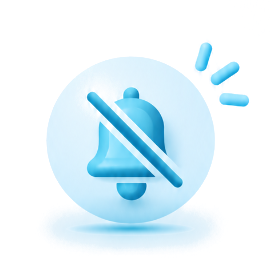
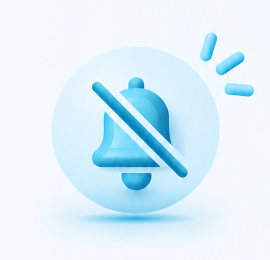
fix(notifications): position top header correctly and restore clean 3D bell illustration matching mockup exactly

diff --git a/lib/screens/notifications/notifications_screen.dart b/lib/screens/notifications/notifications_screen.dart
@@ -26,7 +26,7 @@ class NotificationsScreen extends StatelessWidget {
     final topPadding = MediaQuery.paddingOf(context).top;
 
     return Scaffold(
-      backgroundColor: const Color(0xFFEFF3F8),
+      backgroundColor: const Color(0xFFF7FAFD),
       body: Stack(
         fit: StackFit.expand,
         children: [
@@ -34,49 +34,54 @@ class NotificationsScreen extends StatelessWidget {
           _buildBackground(context),
 
           // ─── BANDEAU SUPÉRIEUR DÉGRADÉ (STYLE METACLIENT) ────────────────
-          Container(
+          Positioned(
+            top: 0,
+            left: 0,
+            right: 0,
             height: topPadding + 124,
-            decoration: const BoxDecoration(
-              gradient: LinearGradient(
-                begin: Alignment.topLeft,
-                end: Alignment.bottomRight,
-                colors: [
-                  Color(0xFF29B7D9),
-                  AppTheme.primary,
-                  Color(0xFF3FC1D8),
-                ],
-              ),
-              borderRadius: BorderRadius.vertical(bottom: Radius.circular(30)),
-            ),
-            child: SafeArea(
-              bottom: false,
-              child: Padding(
-                padding: const EdgeInsets.fromLTRB(14, 4, 14, 0),
-                child: Column(
-                  children: [
-                    // Barre de navigation (Retour, Titre)
-                    Row(
-                      children: [
-                        _buildNavButton(
-                          icon: LucideIcons.arrowLeft,
-                          onTap: () => Get.back<void>(),
-                        ),
-                        const SizedBox(width: 12),
-                        Text(
-                          'Notifications',
-                          style: GoogleFonts.poppins(
-                            color: Colors.white,
-                            fontSize: 19,
-                            fontWeight: FontWeight.w700,
-                            letterSpacing: 0.2,
-                          ),
-                        ),
-                      ],
-                    ),
-                    const SizedBox(height: 12),
-                    // Filtres : Toutes / Non lues
-                    _buildFilterTabs(controller),
+            child: Container(
+              decoration: const BoxDecoration(
+                gradient: LinearGradient(
+                  begin: Alignment.topLeft,
+                  end: Alignment.bottomRight,
+                  colors: [
+                    Color(0xFF29B7D9),
+                    AppTheme.primary,
+                    Color(0xFF3FC1D8),
                   ],
+                ),
+                borderRadius: BorderRadius.vertical(bottom: Radius.circular(30)),
+              ),
+              child: SafeArea(
+                bottom: false,
+                child: Padding(
+                  padding: const EdgeInsets.fromLTRB(14, 4, 14, 0),
+                  child: Column(
+                    children: [
+                      // Barre de navigation (Retour, Titre)
+                      Row(
+                        children: [
+                          _buildNavButton(
+                            icon: LucideIcons.arrowLeft,
+                            onTap: () => Get.back<void>(),
+                          ),
+                          const SizedBox(width: 12),
+                          Text(
+                            'Notifications',
+                            style: GoogleFonts.poppins(
+                              color: Colors.white,
+                              fontSize: 19,
+                              fontWeight: FontWeight.w700,
+                              letterSpacing: 0.2,
+                            ),
+                          ),
+                        ],
+                      ),
+                      const SizedBox(height: 12),
+                      // Filtres : Toutes / Non lues
+                      _buildFilterTabs(controller),
+                    ],
+                  ),
                 ),
               ),
             ),
@@ -375,50 +380,57 @@ class NotificationsScreen extends StatelessWidget {
       color: AppTheme.primary,
       backgroundColor: Colors.white,
       onRefresh: () => controller.fetchNotifications(showLoading: false),
-      child: ListView(
-        physics: const AlwaysScrollableScrollPhysics(
-          parent: BouncingScrollPhysics(),
-        ),
-        children: [
-          SizedBox(
-            height: MediaQuery.sizeOf(Get.context!).height * 0.55,
-            child: Center(
-              child: Column(
-                mainAxisSize: MainAxisSize.min,
-                children: [
-                  Image.asset(
-                    'assets/img/empty_notification_3d.png',
-                    width: 185,
-                    height: 185,
-                    fit: BoxFit.contain,
+      child: LayoutBuilder(
+        builder: (context, constraints) {
+          return SingleChildScrollView(
+            physics: const AlwaysScrollableScrollPhysics(
+              parent: BouncingScrollPhysics(),
+            ),
+            child: ConstrainedBox(
+              constraints: BoxConstraints(
+                minHeight: constraints.maxHeight,
+              ),
+              child: Center(
+                child: Padding(
+                  padding: const EdgeInsets.only(bottom: 30),
+                  child: Column(
+                    mainAxisSize: MainAxisSize.min,
+                    children: [
+                      Image.asset(
+                        'assets/img/empty_notification_3d.png',
+                        width: 200,
+                        height: 195,
+                        fit: BoxFit.contain,
+                      ),
+                      const SizedBox(height: 22),
+                      Text(
+                        'Aucune notification',
+                        textAlign: TextAlign.center,
+                        style: GoogleFonts.poppins(
+                          color: const Color(0xFF071B36),
+                          fontSize: 22,
+                          fontWeight: FontWeight.w700,
+                          letterSpacing: -0.3,
+                        ),
+                      ),
+                      const SizedBox(height: 10),
+                      Text(
+                        'Vous n\'avez aucune notification\npour le moment.',
+                        textAlign: TextAlign.center,
+                        style: GoogleFonts.poppins(
+                          color: const Color(0xFF384964),
+                          fontSize: 14.5,
+                          height: 1.5,
+                          fontWeight: FontWeight.w400,
+                        ),
+                      ),
+                    ],
                   ),
-                  const SizedBox(height: 22),
-                  Text(
-                    'Aucune notification',
-                    textAlign: TextAlign.center,
-                    style: GoogleFonts.poppins(
-                      color: const Color(0xFF1E293B),
-                      fontSize: 22,
-                      fontWeight: FontWeight.w700,
-                      letterSpacing: -0.3,
-                    ),
-                  ),
-                  const SizedBox(height: 10),
-                  Text(
-                    'Vous n\'avez aucune notification\npour le moment.',
-                    textAlign: TextAlign.center,
-                    style: GoogleFonts.poppins(
-                      color: const Color(0xFF64748B),
-                      fontSize: 14.5,
-                      height: 1.5,
-                      fontWeight: FontWeight.w400,
-                    ),
-                  ),
-                ],
+                ),
               ),
             ),
-          ),
-        ],
+          );
+        },
       ),
     );
   }
@@ -501,15 +513,15 @@ class _VaguesMockupPainter extends CustomPainter {
 
     // 1. Vague en haut à droite (Top-right wave)
     final pathTopRight = Path()
-      ..moveTo(w, h * 0.17)
-      ..cubicTo(w * 0.72, h * 0.20, w * 0.65, h * 0.28, w, h * 0.32)
+      ..moveTo(w, h * 0.19)
+      ..cubicTo(w * 0.68, h * 0.22, w * 0.64, h * 0.29, w, h * 0.33)
       ..close();
     canvas.drawPath(pathTopRight, wavePaint1);
 
     // 2. Vague en bas à gauche (Bottom-left wave)
     final pathBottomLeft = Path()
-      ..moveTo(0, h * 0.72)
-      ..cubicTo(w * 0.32, h * 0.75, w * 0.38, h * 0.86, 0, h * 0.94)
+      ..moveTo(0, h * 0.74)
+      ..cubicTo(w * 0.34, h * 0.77, w * 0.38, h * 0.88, 0, h * 0.94)
       ..close();
     canvas.drawPath(pathBottomLeft, wavePaint1);
 
